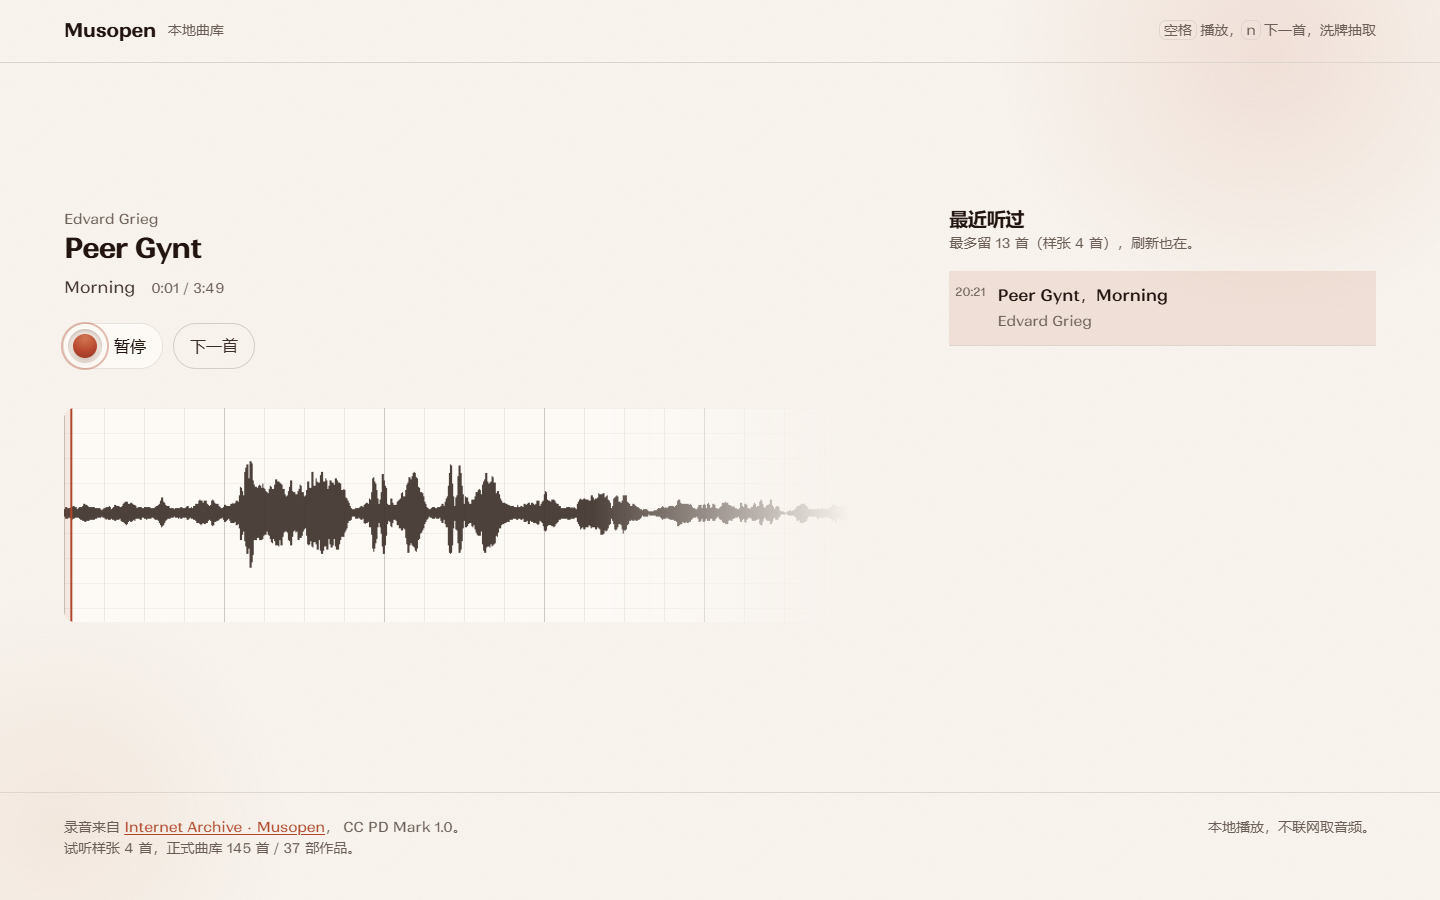
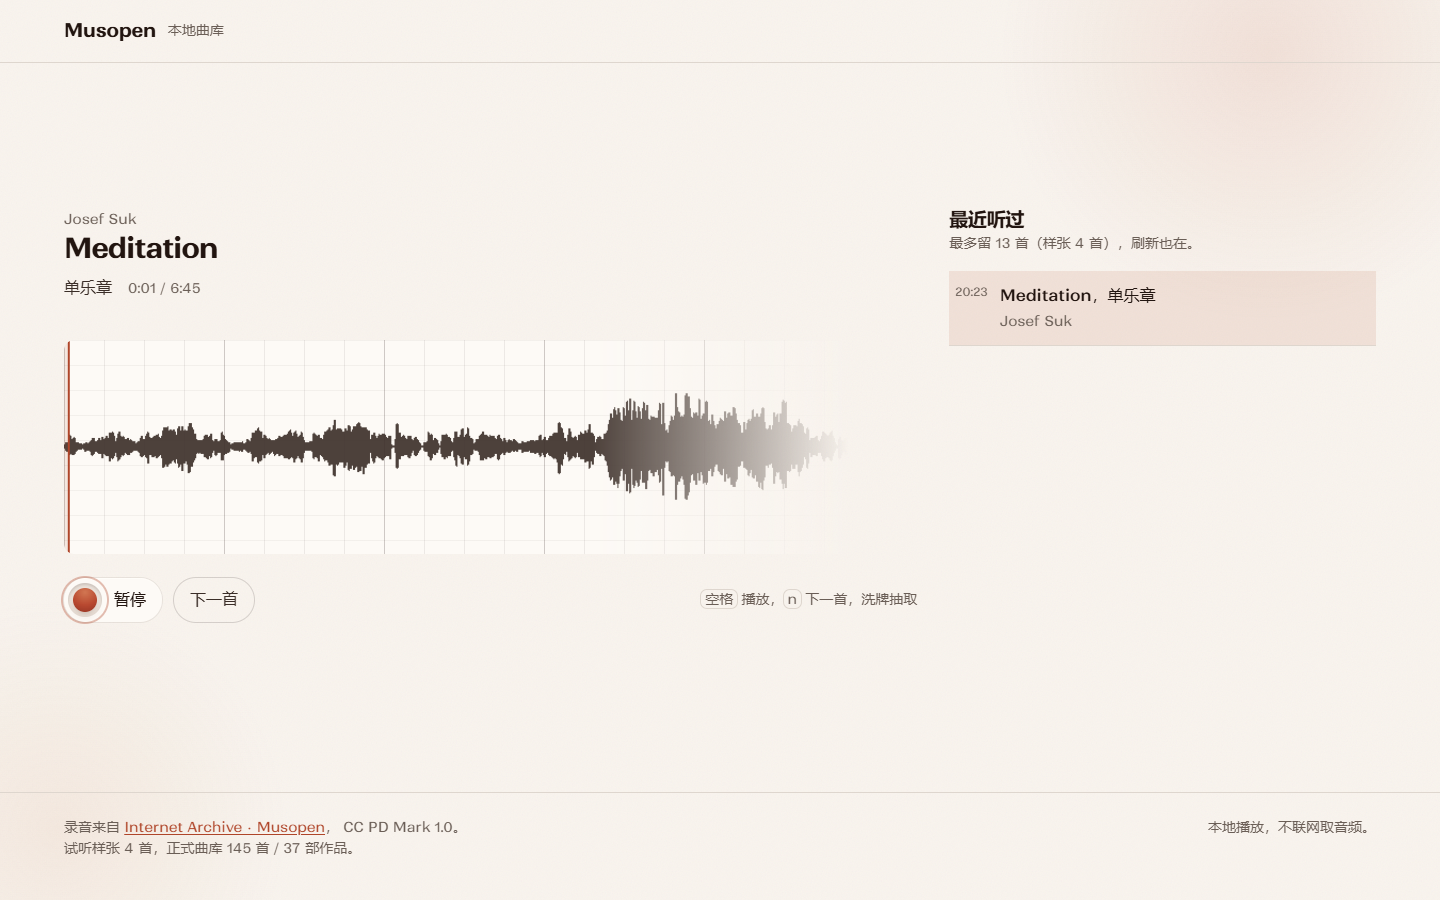
docs(music): 控制台与键位提示移到波形下方，顶栏只留字标

diff --git a/docs/music/design/ui-comp/index.html b/docs/music/design/ui-comp/index.html
@@ -15,7 +15,6 @@
     <header class="bar">
       <p class="bar__mark">Musopen</p>
       <p class="bar__sub">本地曲库</p>
-      <p class="bar__hint"><kbd>空格</kbd> 播放，<kbd>n</kbd> 下一首，洗牌抽取</p>
     </header>
 
     <main class="stage">
@@ -26,14 +25,6 @@
           <span id="movement">Variation 4</span>
           <span class="movement__time num" id="time">0:00 / 0:53</span>
         </p>
-
-        <div class="transport">
-          <button class="cap" id="play" type="button" aria-pressed="false">
-            <span class="cap__well" aria-hidden="true"><span class="cap__rubber"></span></span>
-            <span class="cap__label" id="playlabel">播放</span>
-          </button>
-          <button class="pill" id="next" type="button">下一首</button>
-        </div>
 
         <figure
           class="wave"
@@ -49,6 +40,17 @@
           <span class="wave__passed" id="passed" aria-hidden="true"></span>
           <span class="wave__head" id="head" aria-hidden="true"></span>
         </figure>
+
+        <div class="console">
+          <div class="transport">
+            <button class="cap" id="play" type="button" aria-pressed="false">
+              <span class="cap__well" aria-hidden="true"><span class="cap__rubber"></span></span>
+              <span class="cap__label" id="playlabel">播放</span>
+            </button>
+            <button class="pill" id="next" type="button">下一首</button>
+          </div>
+          <p class="console__hint"><kbd>空格</kbd> 播放，<kbd>n</kbd> 下一首，洗牌抽取</p>
+        </div>
 
         <p class="state" id="audio-error" hidden>
           这段音频打不开，文件可能不在本机。按「下一首」换一首。

diff --git a/docs/music/design/ui-comp/styles.css b/docs/music/design/ui-comp/styles.css
@@ -88,7 +88,15 @@ body::after {
   color: var(--color-muted);
 }
 
-.bar__hint {
+.console {
+  display: flex;
+  flex-wrap: wrap;
+  align-items: center;
+  gap: var(--space-sm) var(--space-md);
+  margin-top: var(--space-lg);
+}
+
+.console__hint {
   margin-inline-start: auto;
   font-size: var(--text-sm);
   color: var(--color-muted);
@@ -143,7 +151,6 @@ kbd {
   display: flex;
   align-items: center;
   gap: var(--space-sm);
-  margin-top: var(--space-lg);
 }
 
 .cap {
@@ -397,8 +404,8 @@ kbd {
     flex-wrap: wrap;
   }
 
-  .bar__hint {
-    width: 100%;
+  .console__hint {
+    margin-inline-start: 0;
   }
 }
 

diff --git a/docs/music/plans/implementing/2026-10-28-古典音乐曲库与随机播放站点/05-界面视觉方向.md b/docs/music/plans/implementing/2026-10-28-古典音乐曲库与随机播放站点/05-界面视觉方向.md
@@ -7,7 +7,7 @@ blocked_by: ["02"]
 
 ## 交付
 
-一套可落地的界面风格与一份可点开的静态样张：Bloom 主题（暖纸、赭石、Ranade、纸张网格、物理橡胶按钮），单屏播放器布局——顶栏只有字标与键位，传输条在曲目信息下方，右侧只有「最近听过」，没有曲目列表；波形即签名。样张在 `docs/music/design/ui-comp/`，截图在 `docs/music/design/shots/`。关联 [US-002](../story.md#us-002-打开即随机播放)、[US-004](../story.md#us-004-回看最近听过的十三首)。
+一套可落地的界面风格与一份可点开的静态样张：Bloom 主题（暖纸、赭石、Ranade、纸张网格、物理橡胶按钮），单屏播放器布局——顶栏只有字标，传输条与键位提示都落在波形下方（控制台那一行），右侧只有「最近听过」，没有曲目列表；波形即签名。样张在 `docs/music/design/ui-comp/`，截图在 `docs/music/design/shots/`。关联 [US-002](../story.md#us-002-打开即随机播放)、[US-004](../story.md#us-004-回看最近听过的十三首)。
 
 ## 范围
 
@@ -40,7 +40,7 @@ blocked_by: ["02"]
 - **网格只出现在波形那一块并向右淡出**：Bloom 的规矩是网格不铺满整屏；`mask-image` 的横向渐隐同时处理了网格与波形，避免「装饰性网格背景 + 上面什么都没有」。
 - **强调色只落在四处**：播放/暂停的橡胶帽、正在播放行的底色、波形的走过区与被走过的进度线。表格里的「播放」平时是 muted，行悬停或聚焦才变赭石，避免四行红字抢戏。
 - **App 口径的密度**：控制件 44px、标签 14px muted、sentence case 不加字距；打印式的小标题（如「正在播放」）一律不用，改用 byline 与作品名承担层级。
-- **只有一件事在屏上**（2026-11-01 用户修正）：删掉试听列表，页面只保留「当前曲目 + 最近听过」；播放/下一首从顶栏挪到曲目信息正下方，读的顺序变成「是什么 → 怎么放 → 长什么样」。
+- **只有一件事在屏上**（2026-11-01 用户两次修正）：删掉试听列表，页面只保留「当前曲目 + 最近听过」；播放/下一首与键位提示都下移到波形下方，排成一条控制台，读的顺序变成「是什么 → 它的形状 → 怎么放」。
 - **曲库规模只说一次**：145 首 / 37 部作品的数字移进页脚，与许可同处一行，避免在正文里重复。
 - **移动端把表格降级为堆叠**：≤40rem 时表头移出视觉流（仍留给读屏），每行变成「作品 / 乐章 / 作曲家 + 右上时长 + 右下播放」，390px 下不再出现四个字的换行。
 - **单乐章作品**：索引里 `movement` 为空（源标题只有两段），界面显示「单乐章」，不把整串标题重复两遍。
@@ -63,7 +63,7 @@ blocked_by: ["02"]
 
 复验：`sloplint --scope app` 静态 0 FAIL；点击波形 70% 处 `seekRatio=0.70`、`aria-valuenow=161`；音频错误可见；历史跨天时间格式正确。
 
-2026-11-01 20:25：按用户修正重排——删试听列表，传输条移到曲目信息下方，曲库规模并入页脚，舞台内容在视口内垂直居中；`下一首` 改为描边次按钮。`sloplint` 剩一条 F4 WARN（「两个实心按钮」），已核实为启发式误报：`下一首` 的背景是 `transparent`、只有 1px 描边与文字，改成纯文字链接、甚至内联 `background:none` 都无法消除该提示；视觉上主次分明（橡胶帽 vs 描边药丸），故按 Finish 项记录并放行。
+2026-11-01 20:32：控制台再下移——播放/下一首与键位提示合并为波形下方的一行（左传输、右键位），顶栏只剩字标；曲库规模并入页脚，舞台内容在视口内垂直居中；`下一首` 为描边次按钮。`sloplint` 剩一条 F4 WARN（「两个实心按钮」），已核实为启发式误报：`下一首` 的背景是 `transparent`、只有 1px 描边与文字，改成纯文字链接、甚至内联 `background:none` 都无法消除该提示；视觉上主次分明（橡胶帽 vs 描边药丸），故按 Finish 项记录并放行。
 
 ## 下一步
 
